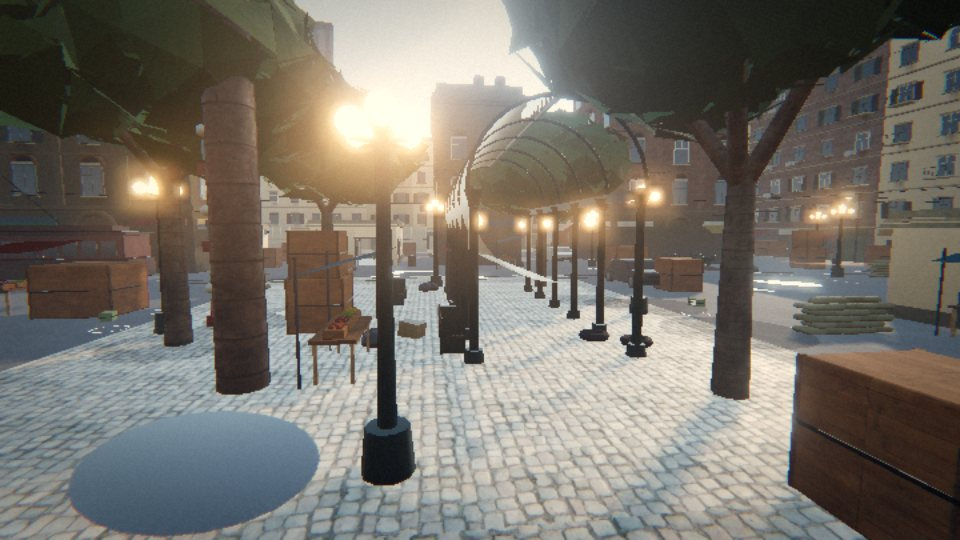
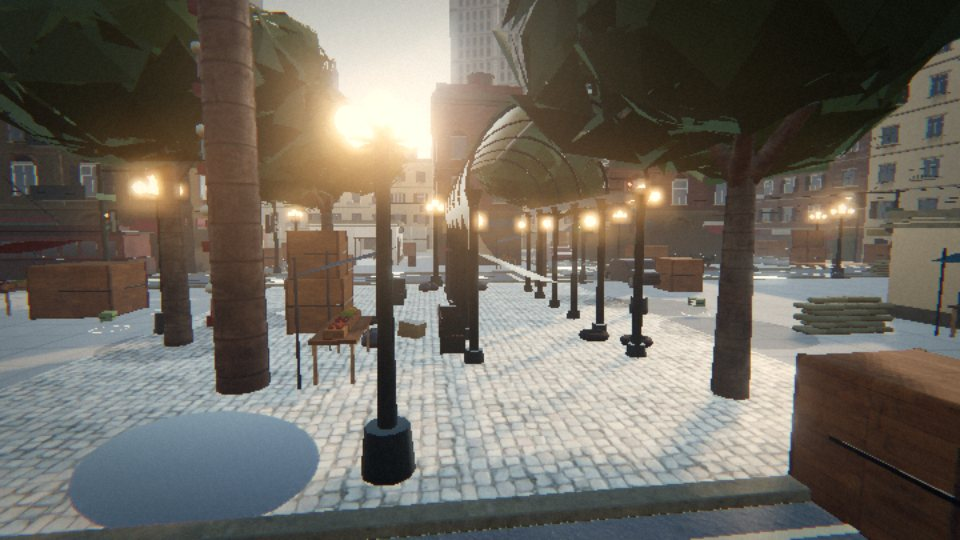
Pioneer Square street grid: asphalt roads, concrete sidewalks with curbs, lane lines, crosswalks, manholes and cycling traffic lights; fix an underground pickup bots couldn't reach
Claude-Session: https://claude.ai/code/session_01QGmXaVmas4M1n3Wnx81Szs

diff --git a/js/world.js b/js/world.js
@@ -281,11 +281,11 @@ const PIONEER_HALF = [
   [12.5, 0, 0, 0, 0, 0, 'cable', [9.5, 14, 6.4, 21.5, 14, 7]],
   [12.5, 0, 0, 0, 0, 0, 'cable', [9.5, -14, 6.4, 21.5, -14, 7]],
   [12.5, 0, 0, 0, 0, 0, 'cable', [21.5, 30, 8, 54, 34, 9]],
-  [19.8, 13.5, 0, 0, 0, 0, 'vlamp'], [19.8, -13.5, 0, 0, 0, 0, 'vlamp'], [10.2, 26, 0, 0, 0, 0, 'vlamp'], [19.8, 34, 0, 0, 0, 0, 'vlamp'],
+  [19.8, 15.8, 0, 0, 0, 0, 'vlamp'], [19.8, -9.7, 0, 0, 0, 0, 'vlamp'], [10.2, 26, 0, 0, 0, 0, 'vlamp'], [19.8, 34, 0, 0, 0, 0, 'vlamp'],
   [17.5, 6, 2.4, 0.9, 0.9, 0, 'stall', 1],
   [16.5, 30, 1.6, 1.6, 1.6, 0, 'crate'], [16.6, 30, 1.4, 1.4, 1.4, 1.6, 'crate'],
   [17, -8, 0.8, 3, 1.1, 0, 'sand'],
-  [16, 37, 2, 2.5, 1.8, 0, 'crate'],
+  [17.5, 38.6, 2, 2.5, 1.8, 0, 'crate'],
   // ---- side streets: cover every 10-15 m so nothing is watched end to end
   [24, 12, 4.4, 2.0, 1.45, 0, 'car', 0],
   [31, -12.8, 2, 2.5, 1.8, 0, 'crate'],
@@ -297,8 +297,8 @@ const PIONEER_HALF = [
   [18, -36, 2, 2, 1.2, 0, 'pallet'],
   [41, -24, 0.8, 3, 1.1, 0, 'sand'],
   // ---- extra breakers on the long lines (side streets, sidewalks, the strip in front of spawn)
-  [33, 15, 1.6, 1.6, 1.6, 0, 'crate'], [33.1, 15, 1.4, 1.4, 1.4, 1.6, 'crate'],
-  [16, 14.6, 2, 2.5, 1.8, 0, 'crate'],
+  [36, 15.9, 1.6, 1.6, 1.6, 0, 'crate'], [36.1, 15.9, 1.4, 1.4, 1.4, 1.6, 'crate'],
+  [17.5, 17, 2, 2.5, 1.8, 0, 'crate'],
   [42, 15.5, 0.8, 3, 1.1, 0, 'sand'],
   [8, 38.6, 2.4, 0.9, 0.9, 0, 'stall', 1], [30, 38.6, 2, 2.5, 1.8, 0, 'crate'], [44, 38.5, 1.6, 1.6, 1.6, 0, 'crate'],
   [10, 29.5, 0.8, 3, 1.1, 0, 'sand'],
@@ -328,12 +328,20 @@ const PIONEER_HALF = [
   [0, 40.5, 110, 1, 10, 0, 'boundary'],
   [54.5, 0, 1, 82, 10, 0, 'boundary'],
 ];
+// street grid (east half; mirrored): First Avenue with the streetcar line, three cross streets
+const PIONEER_ROADS = [
+  [10, -37.4, 15, 37.4, 'z', { center: false }],
+  [15, 9.5, 43, 14.5, 'x'],
+  [15, -15, 43, -10.5, 'x'],
+  [15, 29.5, 43, 36, 'x'],
+  [15, -37, 34, -31, 'x'],
+];
 const PIONEER_SPAWNS = [[51, -34], [51, -24], [51, -16], [51, 0], [51, 10], [51, 22], [51, 30], [49, -8], [49, 4], [49, 16]];
 const PIONEER_PICKUPS = [
   { type: 'health', pos: [0, 0, 9.5] },
   { type: 'health', pos: [0, 0, -9.5] },
-  { type: 'health', pos: [24, -3.24, 23.6] },
-  { type: 'health', pos: [-24, -3.24, -23.6] },
+  { type: 'health', pos: [25.5, -3.24, 20.8] },
+  { type: 'health', pos: [-25.5, -3.24, -20.8] },
   { type: 'ammo', pos: [28, 0, -6] },
   { type: 'ammo', pos: [-28, 0, 6] },
   { type: 'ammo', pos: [31.5, 0, -21] },
@@ -345,7 +353,7 @@ const PIONEER_PICKUPS = [
 export const MAPS = {
   tarsa: { id: 'tarsa', name: 'Tarsa Market', blurb: 'Three market streets, tall blocks and alleys; both bomb sites inside the market halls', center: TARSA_CENTER, half: TARSA_HALF, spawns: TARSA_SPAWNS, pickups: TARSA_PICKUPS, bounds: { hx: 60, hz: 42 }, facadeFloors: 3, photos: ['assets/loading/tarsa-1.jpg', 'assets/loading/tarsa-2.jpg'] },
   shuran: { id: 'shuran', name: 'Shuran Yard', blurb: 'Three lanes: market street, yard, container stacks', center: SHURAN_CENTER, half: SHURAN_HALF, spawns: SHURAN_SPAWNS, pickups: SHURAN_PICKUPS, photos: ['assets/loading/shuran-1.jpg'] },
-  pioneer: { id: 'pioneer', name: 'Pioneer Square', blurb: 'Old Seattle brick blocks around an iron pergola; bomb site A is down in the Underground', center: PIONEER_CENTER, half: PIONEER_HALF, spawns: PIONEER_SPAWNS, pickups: PIONEER_PICKUPS, bounds: { hx: 54, hz: 40 }, facadeFloors: 4, photos: ['assets/loading/pioneer-1.jpg', 'assets/loading/pioneer-2.jpg', 'assets/loading/pioneer-3.jpg'] },
+  pioneer: { id: 'pioneer', name: 'Pioneer Square', blurb: 'Old Seattle brick blocks around an iron pergola; bomb site A is down in the Underground', center: PIONEER_CENTER, half: PIONEER_HALF, spawns: PIONEER_SPAWNS, pickups: PIONEER_PICKUPS, bounds: { hx: 54, hz: 40 }, facadeFloors: 4, roads: PIONEER_ROADS, roadsMirror: true, photos: ['assets/loading/pioneer-1.jpg', 'assets/loading/pioneer-2.jpg', 'assets/loading/pioneer-3.jpg'] },
   mart: MART,
 };
 export const MAP_IDS = Object.keys(MAPS);
@@ -564,20 +572,37 @@ export function buildWorld(scene, physics, mapId = 'tarsa') {
     put(g, mat, x, y, z, ry, { rx: -Math.PI / 2, grime: 0, cast: false });
   };
   const street = !LAYOUT.build; // custom-built maps (the supermarket) lay their own ground
+  // street grid: [x0, z0, x1, z1, axis ('x' | 'z' = direction of travel), opts]; roadsMirror adds the point-mirrored copy
+  const ROADS = street && LAYOUT.roads ? (LAYOUT.roadsMirror
+    ? [...LAYOUT.roads, ...LAYOUT.roads.map(([a, b, c, d, ax, o]) => [-c, -d, -a, -b, ax, o])] : LAYOUT.roads) : null;
+  if (ROADS) {
+    // concrete sidewalk slabs: light, slightly mottled, scored every 1.5 m
+    const c = document.createElement('canvas'); c.width = c.height = 512;
+    const g = c.getContext('2d');
+    g.fillStyle = '#8e8b85'; g.fillRect(0, 0, 512, 512);
+    for (let i = 0; i < 2600; i++) { const v = 125 + Math.random() * 35 | 0; g.fillStyle = `rgba(${v},${v - 3},${v - 8},0.18)`; g.fillRect(Math.random() * 512, Math.random() * 512, 2 + Math.random() * 6, 2 + Math.random() * 6); }
+    for (let k = 0; k < 2; k++) for (let j = 0; j < 2; j++) { g.fillStyle = `rgba(${[120, 140, 110, 135][k * 2 + j]},${[118, 136, 108, 130][k * 2 + j]},${[112, 128, 104, 124][k * 2 + j]},0.10)`; g.fillRect(k * 256, j * 256, 256, 256); }
+    g.strokeStyle = 'rgba(60,58,54,0.75)'; g.lineWidth = 3;
+    for (const t of [1.5, 256, 510.5]) { g.beginPath(); g.moveTo(t, 0); g.lineTo(t, 512); g.stroke(); g.beginPath(); g.moveTo(0, t); g.lineTo(512, t); g.stroke(); }
+    const t = new THREE.CanvasTexture(c); t.colorSpace = THREE.SRGBColorSpace; t.wrapS = t.wrapT = THREE.RepeatWrapping; t.anisotropy = 8;
+    M.pave = std({ map: t, roughness: 0.92, normalMap: tex.concrete && tex.concrete.normalMap, normalScale: new THREE.Vector2(0.5, 0.5) });
+    S.pave = 3;
+  }
   if (street) {
   plane(M.dirt, 300, 300, 0, 0, -0.01);
-  plane(M.asphalt, 2 * (HX - 11), 2 * HZ, 0, 0, 0.0);
-  plane(M.tile, 26, 18, 0, 0, 0.012);
+  // maps with a street grid (LAYOUT.roads): everything between the roads is concrete sidewalk; otherwise one big asphalt yard
+  plane(ROADS ? M.pave : M.asphalt, 2 * (HX - 11), 2 * HZ, 0, 0, 0.0);
+  if (!ROADS) plane(M.tile, 26, 18, 0, 0, 0.012);
   for (const sx of [-1, 1]) plane(M.dirt, 11, 2 * HZ, sx * (HX - 5.5), 0, 0.006); // forward bases on packed dirt
   for (const sz of [-1, 1]) plane(M.tile, 2 * HX + 2, 2.6, 0, sz * (HZ - 1.3), 0.016); // sidewalks
   // curbs
   for (const sz of [-1, 1]) B(M.concrete, 2 * (HX - 11), 0.12, 0.25, 0, 0, sz * (HZ - 2.7), 0, { grime: 0.2, cast: false });
   // lane markings
-  for (const sz of [-1, 1]) for (let x = -(HX - 14); x <= HX - 14; x += 4) {
+  if (!ROADS) for (const sz of [-1, 1]) for (let x = -(HX - 14); x <= HX - 14; x += 4) {
     if (Math.abs(x) < 6) continue;
     put(new THREE.PlaneGeometry(0.15, 2), M.line, x, 0.02, sz * HZ * 0.6, Math.PI / 2, { rx: -Math.PI / 2, grime: 0, cast: false, tint: 0xbab39c });
   }
-  for (const sx of [-1, 1]) for (let i = 0; i < 7; i++) {
+  if (!ROADS) for (const sx of [-1, 1]) for (let i = 0; i < 7; i++) {
     put(new THREE.PlaneGeometry(0.5, 3), M.line, sx * 13.5, 0.02, -4.5 + i * 1.5, 0, { rx: -Math.PI / 2, grime: 0, cast: false, tint: 0xcfc7ae });
   }
   // oil stains / scorch marks are in the asphalt texture; add a few scorched patches
@@ -588,6 +613,104 @@ export function buildWorld(scene, physics, mapId = 'tarsa') {
     m.position.set((rnd() - 0.5) * 50, 0.025, (rnd() - 0.5) * 40);
     group.add(m);
   }
+  }
+
+  // ---------- roads: asphalt, curbs, lane lines, crosswalks, manholes and working traffic lights ----------
+  const signalMats = { x: [], z: [] };   // [red, amber, green] per direction of travel; cycled in world.update
+  let placeSignals = null;                // after the layout is built, so poles avoid props
+  if (ROADS) {
+    const rect = (r) => ({ x0: r[0], z0: r[1], x1: r[2], z1: r[3] });
+    const inters = [];
+    for (let i = 0; i < ROADS.length; i++) for (let j = i + 1; j < ROADS.length; j++) {
+      if (ROADS[i][4] === ROADS[j][4]) continue;
+      // the junction box: the z-road's width by the x-road's width, where the two meet (crossing or T)
+      const zr = rect(ROADS[i][4] === 'z' ? ROADS[i] : ROADS[j]), xr = rect(ROADS[i][4] === 'z' ? ROADS[j] : ROADS[i]);
+      if (xr.x1 < zr.x0 - 0.1 || xr.x0 > zr.x1 + 0.1 || zr.z1 < xr.z0 - 0.1 || zr.z0 > xr.z1 + 0.1) continue;
+      inters.push({ x0: zr.x0, x1: zr.x1, z0: xr.z0, z1: xr.z1 });
+    }
+    const cut = (segs, a, b) => segs.flatMap(([p, q]) => (b <= p || a >= q) ? [[p, q]] : [[p, Math.min(q, a)], [Math.max(p, b), q]].filter(([u, v]) => v - u > 0.05));
+    const flat = (mat, w, d, x, z, y, tint) => put(new THREE.PlaneGeometry(w, d), mat, x, y, z, 0, { rx: -Math.PI / 2, grime: 0, cast: false, tint });
+    const manholeMat = std({ color: 0x2a2a28, roughness: 0.55, metalness: 0.6, polygonOffset: true, polygonOffsetFactor: -2 });
+    for (const r of ROADS) {
+      const [x0, z0, x1, z1, ax] = r, o = r[5] || {};
+      const alongX = ax === 'x';
+      const L0 = alongX ? x0 : z0, L1 = alongX ? x1 : z1, W0 = alongX ? z0 : x0, W1 = alongX ? z1 : x1, Wd = W1 - W0, Wc = (W0 + W1) / 2;
+      const P = (l, w) => alongX ? [l, w] : [w, l];      // (along, across) -> (x, z)
+      const box = (l0, l1, w0, w1) => alongX ? [l0, w0, l1, w1] : [w0, l0, w1, l1];
+      plane(M.asphalt, x1 - x0, z1 - z0, (x0 + x1) / 2, (z0 + z1) / 2, 0.008);
+      // spans of this road that are intersections (no curbs, no lines there)
+      const my = inters.filter(I => alongX ? (I.z0 >= z0 - 0.1 && I.z1 <= z1 + 0.1 && I.x1 >= x0 - 0.1 && I.x0 <= x1 + 0.1)
+        : (I.x0 >= x0 - 0.1 && I.x1 <= x1 + 0.1 && I.z1 >= z0 - 0.1 && I.z0 <= z1 + 0.1))
+        .map(I => alongX ? [I.x0, I.x1] : [I.z0, I.z1]);
+      // curbs along both edges, broken where another road crosses and where a stairwell opens
+      for (const [w, sgn] of [[W0, -1], [W1, 1]]) {
+        let segs = [[L0, L1]];
+        for (const q of ROADS) if (q !== r) {
+          const qa = alongX ? q[0] : q[1], qb = alongX ? q[2] : q[3], qw0 = alongX ? q[1] : q[0], qw1 = alongX ? q[3] : q[2];
+          if (w + sgn * 0.4 > qw0 && w + sgn * 0.4 < qw1) segs = cut(segs, qa, qb);
+        }
+        for (const h of HOLES) {
+          const ha = alongX ? h[0] : h[1], hb = alongX ? h[2] : h[3], hw0 = alongX ? h[1] : h[0], hw1 = alongX ? h[3] : h[2];
+          if (w + sgn * 0.6 > hw0 - 0.1 && w - sgn * 0.1 < hw1 + 0.1) segs = cut(segs, ha - 0.1, hb + 0.1);
+        }
+        for (const [a, b] of segs) {
+          const [cx, cz] = P((a + b) / 2, w + sgn * 0.15);
+          B(M.concrete, alongX ? b - a : 0.3, 0.15, alongX ? 0.3 : b - a, cx, 0, cz, 0, { tint: 0xc9c4b8, grime: 0.35, cast: false });
+          // storm drain grates against the curb now and then
+          for (let l = a + 4 + rnd() * 6; l < b - 2; l += 14 + rnd() * 10) { const [gx, gz] = P(l, w - sgn * 0.35); flat(manholeMat, alongX ? 0.9 : 0.45, alongX ? 0.45 : 0.9, gx, gz, 0.02); }
+        }
+      }
+      // lane lines: solid edge lines, dashed centre (skipped through intersections and their crosswalks)
+      let free = [[L0, L1]];
+      for (const [a, b] of my) free = cut(free, a - 4.6, b + 4.6);
+      for (const [a, b] of free) {
+        for (const e of [W0 + 0.45, W1 - 0.45]) { const [lx, lz] = P((a + b) / 2, e); flat(M.line, alongX ? b - a : 0.12, alongX ? 0.12 : b - a, lx, lz, 0.02, 0xd8d2c0); }
+        if (o.center !== false) for (let l = a + 1; l + 3 <= b; l += 6) { const [lx, lz] = P(l + 1.5, Wc); flat(M.line, alongX ? 3 : 0.14, alongX ? 0.14 : 3, lx, lz, 0.02, 0xd9b54a); }
+        for (let l = a + 3 + rnd() * 5; l < b - 2; l += 12 + rnd() * 8) { const [mx, mz] = P(l, Wc + (rnd() - 0.5) * Wd * 0.4); put(new THREE.CircleGeometry(0.38, 18), manholeMat, mx, 0.019, mz, rnd() * 6, { rx: -Math.PI / 2, grime: 0, cast: false }); }
+      }
+      // crosswalks and stop lines on both approaches to each intersection
+      for (const [a, b] of my) for (const [edge, dir] of [[a, -1], [b, 1]]) {
+        if (edge + dir * 4 < L0 || edge + dir * 4 > L1) continue;
+        for (let w = W0 + 0.5; w + 0.5 <= W1 - 0.3; w += 1.0) { const [sx, sz] = P(edge + dir * 1.9, w + 0.25); flat(M.line, alongX ? 2.8 : 0.5, alongX ? 0.5 : 2.8, sx, sz, 0.021, 0xe6e0d0); }
+        const [tx, tz] = P(edge + dir * 3.9, Wc);
+        flat(M.line, alongX ? 0.4 : Wd - 0.6, alongX ? Wd - 0.6 : 0.4, tx, tz, 0.021, 0xe6e0d0);
+      }
+    }
+    // signal lenses: one material per lamp colour and direction, so the lights can change
+    const LENS = [0xff3a24, 0xffb020, 0x3cff7a];
+    for (const d of ['x', 'z']) for (const col of LENS) signalMats[d].push(new THREE.MeshStandardMaterial({ color: 0x111111, emissive: col, emissiveIntensity: 0.05, roughness: 0.3 }));
+    const head = (x, y, z, ry, d) => {
+      put(flatBox(0.36, 1.0, 0.28, 0), M.paint, x, y, z, ry, { tint: 0x2b3a2a, grime: 0.15 });
+      const nx = Math.sin(ry), nz = Math.cos(ry);
+      for (let k = 0; k < 3; k++) {
+        const ly = y + 0.3 - k * 0.3;
+        put(new THREE.CircleGeometry(0.11, 16), signalMats[d][k], x + nx * 0.145, ly, z + nz * 0.145, ry, { grime: 0, cast: false });
+        put(new THREE.CylinderGeometry(0.14, 0.14, 0.16, 12, 1, true, -Math.PI / 2, Math.PI), M.paint, x + nx * 0.2, ly + 0.02, z + nz * 0.2, ry, { rx: Math.PI / 2, tint: 0x2b3a2a, grime: 0 });
+      }
+      put(flatBox(0.56, 1.2, 0.03, 0), M.paint, x - nx * 0.15, y, z - nz * 0.15, ry, { tint: 0x1c1c1c, grime: 0 }); // backplate
+    };
+    const free = (x, z) => !physics.boxes.some(b => b.maxy > 0.2 && b.miny < 3 && x > b.minx - 0.3 && x < b.maxx + 0.3 && z > b.minz - 0.3 && z < b.maxz + 0.3)
+      && !ROADS.some(q => x > q[0] && x < q[2] && z > q[1] && z < q[3]);
+    placeSignals = () => { for (const I of inters) {
+      const D = I.z1 - I.z0;
+      // two diagonal corners; each pole carries a mast arm over one road and a head on the pole for the other
+      for (const [cx, cz, sx, sz] of [[I.x1 + 0.7, I.z1 + 0.7, 1, 1], [I.x0 - 0.7, I.z0 - 0.7, -1, -1]]) {
+        if (!free(cx, cz)) continue;
+        solid(cx, cz, 0.3, 0.3, 4, 0, 'metal');
+        put(new THREE.CylinderGeometry(0.11, 0.14, 6.2, 10), M.paint, cx, 3.1, cz, 0, { tint: 0x3a4a3a, grime: 0.3 });
+        put(new THREE.CylinderGeometry(0.22, 0.26, 0.5, 10), M.paint, cx, 0.25, cz, 0, { tint: 0x3a4a3a, grime: 0.5 });
+        // mast arm across the x-direction road (spans z), signal faces the oncoming x-traffic
+        const armL = D * 0.6;
+        put(new THREE.CylinderGeometry(0.06, 0.08, armL, 8), M.paint, cx, 5.9, cz - sz * armL / 2, 0, { rx: Math.PI / 2, tint: 0x3a4a3a, grime: 0 });
+        head(cx, 5.25, cz - sz * armL * 0.85, sx > 0 ? Math.PI / 2 : -Math.PI / 2, 'x');
+        // pole-mounted head for the z-direction road, facing its oncoming traffic
+        head(cx - sx * 0.3, 3.4, cz, sz > 0 ? 0 : Math.PI, 'z');
+        head(cx + sx * 0.05, 3.4, cz - sz * 0.3, sx > 0 ? Math.PI / 2 : -Math.PI / 2, 'x');
+        // street name sign and a walk button
+        put(flatBox(1.3, 0.28, 0.03, 0), M.paint, cx, 4.6, cz - sz * 0.2, sx > 0 ? 0 : Math.PI, { tint: 0x2f6a3a, grime: 0 });
+        put(flatBox(0.12, 0.18, 0.08, 0), M.paint, cx + sx * 0.14, 1.1, cz, 0, { tint: 0xd9b54a, grime: 0.1 });
+      }
+    } };
   }
 
   // A proper window on a solid facade: recessed dark glass, painted frame with mullions, stone sill and
@@ -1364,6 +1487,8 @@ export function buildWorld(scene, physics, mapId = 'tarsa') {
     add(-cx, -cz, w, d, h, y0, kind, mx, 0);
   }
 
+  if (placeSignals) placeSignals();
+
   // ---------- street dressing: puddles, litter, posters (all batched, no extra draw calls) ----------
   if (street) {
     const blocked = (x, z, r) => HOLES.some(h => x > h[0] - r && x < h[2] + r && z > h[1] - r && z < h[3] + r) || physics.boxes.some(b => b.maxy > 0.2 && b.miny < 2 && x > b.minx - r && x < b.maxx + r && z > b.minz - r && z < b.maxz + r);
@@ -1572,6 +1697,17 @@ export function buildWorld(scene, physics, mapId = 'tarsa') {
   } else for (const [x, z] of LAYOUT.spawns) {
     world.spawns[1].push(new THREE.Vector3(x, 0, z));
     world.spawns[0].push(new THREE.Vector3(-x, 0, -z));
+  }
+  if (ROADS && signalMats.x.length) {
+    // 22 s cycle: x-roads green 9 s, amber 2 s, all-red 0.5 s; then the z-roads
+    let phase = -1;
+    world.update = (dt, t) => {
+      const c = t % 22, x = c < 9 ? 2 : c < 11 ? 1 : 0, z = c >= 11.5 && c < 20.5 ? 2 : c >= 20.5 ? 1 : 0;
+      const k = x * 3 + z; if (k === phase) return; phase = k;
+      signalMats.x.forEach((m, i) => { m.emissiveIntensity = i === x ? 6 : 0.05; });
+      signalMats.z.forEach((m, i) => { m.emissiveIntensity = i === z ? 6 : 0.05; });
+    };
+    world.update(0, 0);
   }
   if (custom) Object.assign(world, custom); // update(), menuCam, sites, ambient music, ...
   world.spawnYaw = [-Math.PI / 2, Math.PI / 2];
